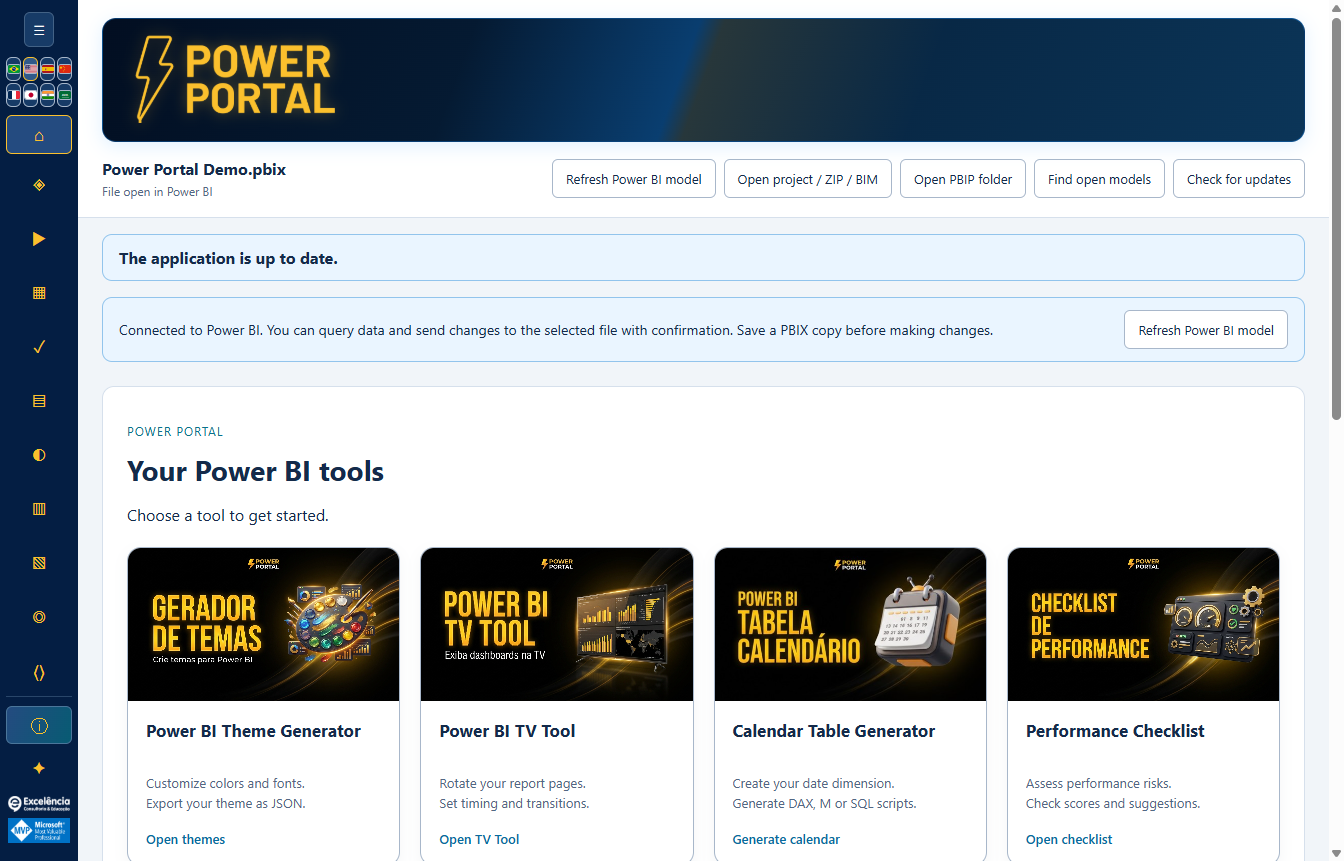
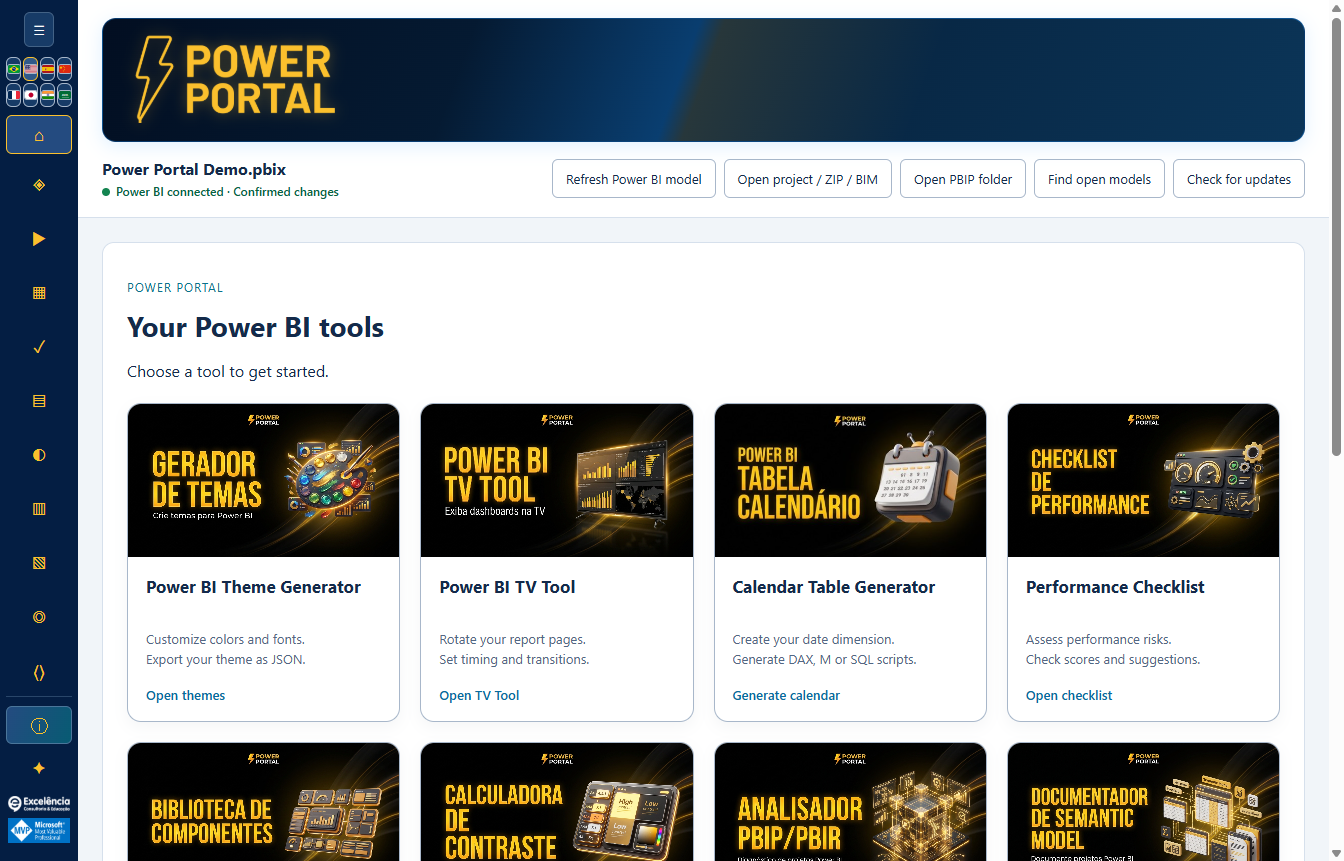
Release 1.6.4 with prominent updates, TV example and refined theme workflow

diff --git a/README.md b/README.md
@@ -10,13 +10,13 @@ This is a **distribution-only repository**: installers, installation helpers, ch
 
 ### Option 1: Install with a few clicks
 
-1. [Download Power Portal Desktop 1.6.3 for Windows x64](https://github.com/luisgnserra/powerportaldesktop/releases/download/v1.6.3/PowerPortal-Setup-1.6.3-x64.exe).
+1. [Download Power Portal Desktop 1.6.4 for Windows x64](https://github.com/luisgnserra/powerportaldesktop/releases/download/v1.6.4/PowerPortal-Setup-1.6.4-x64.exe).
 2. Run the installer and approve the Windows administrator prompt.
 3. Choose the installation folder and default language.
 4. Finish installation, then close and reopen Power BI Desktop.
 5. Open a PBIX and select **External Tools > Power Portal**.
 
-**Windows may warn that the publisher is unknown:** version 1.6.3 is not digitally signed. Only proceed if you trust this distribution. If your organization blocks unsigned software, contact IT rather than bypassing its policy.
+**Windows may warn that the publisher is unknown:** version 1.6.4 is not digitally signed. Only proceed if you trust this distribution. If your organization blocks unsigned software, contact IT rather than bypassing its policy.
 
 [Latest release](https://github.com/luisgnserra/powerportaldesktop/releases/latest) · [Installation guide](docs/INSTALLATION.md) · [Configuration](docs/CONFIGURATION.md) · [Troubleshooting](docs/TROUBLESHOOTING.md)
 
@@ -28,21 +28,23 @@ The installer adds **Power Portal** to **External Tools** in Power BI Desktop. C
 
 The supplied ribbon screenshot uses Portuguese: **Ferramentas externas** means **External Tools**. Power Portal opens a **separate window connected to Power BI**, not an embedded report visual or a new internal Power BI pane.
 
-![Power Portal 1.6.3 home, full sidebar and startup connection notice](docs/images/home.png)
+![Power Portal 1.6.4 home, full sidebar and startup connection notice](docs/images/home.png)
 
 **Already have Power BI open?** When launched from a shortcut, Power Portal detects open local models and displays a connection notice. Choose **Find open models**, select your file, and connect. You can then query its data and send supported changes back with confirmation.
+
+Once connected, the status is summarized in the header rather than occupying a separate banner.
 
 [See all ten tools, connection screens and direct Power BI actions in the illustrated guide](docs/SCREENSHOTS.md).
 
 ### Built-in update checks
 
-Starting in **1.6.2**, the installed application checks the latest official GitHub Release when opened. If a newer stable version exists, it shows **Update now**. Click it to download, verify SHA-256/size, and start the installer automatically.
+Starting in **1.6.2**, the installed application checks the latest official GitHub Release when opened. If a newer stable version exists, it shows **Update now**. In 1.6.4 the banner is prominent, animated and stays visible while scrolling, respecting reduced-motion preferences. No persistent "up to date" line is shown. Click to download, verify SHA-256/size, and start the installer automatically.
 
 Windows asks for administrator authorization. Only Power Portal closes; Power BI remains open. Save/export unsent tool edits first. Failed downloads or canceled authorization leave an explicit error and a retry option.
 
 ![New-version notification and Update now button](docs/images/update-available.png)
 
-The screenshot uses a **simulated future 1.6.4 notification** to illustrate the UI, not an announcement of a published version. **Version 1.6.3 is now published:** users on 1.6.2 can reopen the app or click **Check for updates** to test the real notification. [Update guide](docs/UPDATES.md).
+The screenshot uses a **simulated future 1.6.5 notification** to illustrate the UI, not an announcement of a published version. **Version 1.6.4 is now published:** users on 1.6.2 or 1.6.3 can reopen the app or click **Check for updates** to test the real notification. [Update guide](docs/UPDATES.md).
 
 **On 1.6.1 or older? Install 1.6.2 manually once** to enable this feature. You can also use **Check for updates** to retry a failed/offline check. The updater never installs merely because you opened the application.
 
@@ -53,13 +55,13 @@ Open **Windows PowerShell 5.1 or PowerShell 7 on Windows**:
 ```powershell
 $script = Join-Path $env:TEMP 'Install-PowerPortal.ps1'
 [Net.ServicePointManager]::SecurityProtocol = [Net.ServicePointManager]::SecurityProtocol -bor [Net.SecurityProtocolType]::Tls12
-Invoke-WebRequest -UseBasicParsing 'https://raw.githubusercontent.com/luisgnserra/powerportaldesktop/v1.6.3/install.ps1' -OutFile $script
+Invoke-WebRequest -UseBasicParsing 'https://raw.githubusercontent.com/luisgnserra/powerportaldesktop/v1.6.4/install.ps1' -OutFile $script
 # Review the downloaded script before running it.
 Get-Content -LiteralPath $script
 & $script
 ```
 
-The helper downloads **version 1.6.3**, verifies its pinned SHA-256 checksum, and opens the same installer. It does not install Node.js, PHP, a .NET SDK, or build anything.
+The helper downloads **version 1.6.4**, verifies its pinned SHA-256 checksum, and opens the same installer. It does not install Node.js, PHP, a .NET SDK, or build anything.
 
 For unattended installation, run the same helper from an **administrator PowerShell window**:
 
@@ -89,8 +91,8 @@ The desktop application includes its required runtime components. You do not nee
 
 | Tool | What it does |
 |---|---|
-| Theme generator | Live local preview, theme JSON import/export, and confirmed application to the connected Power BI window. |
-| TV Tool | Present published report pages or local images, configure timing and transitions, and export presentation HTML. |
+| Theme generator | Highlighted JSON import, live local preview, JSON export, and confirmed direct sending at the end of the page. |
+| TV Tool | Open a working official example in the browser, present published report pages or local images, configure timing/transitions, and export HTML. |
 | Calendar generator | Read existing calendar metadata and dates, export scripts, or create a calculated calendar table with confirmation and backup. |
 | Performance checklist | Assess a report using the portal's checklist and available model metadata. |
 | Component library | Build HTML/DAX components and create an HTML measure in a connected model. |

diff --git a/docs/SCREENSHOTS.md b/docs/SCREENSHOTS.md
@@ -2,7 +2,7 @@
 
 [Back to home](../README.md) · [Install](INSTALLATION.md) · [Safety guide](USAGE.md)
 
-**Application screenshots: Power Portal Desktop 1.6.3, English interface.**
+**Application screenshots: Power Portal Desktop 1.6.4, English interface.**
 The screenshots use **synthetic demonstration metadata and query values**, not a customer PBIX. Connected states illustrate supported UI actions; no customer model was changed to make these images. Native file-picker labels can follow the Windows language. The actual Power BI ribbon screenshot was supplied by the owner and cropped to remove the private file title.
 
 ## Open Power Portal from External Tools
@@ -35,7 +35,9 @@ Launching from the External Tools ribbon instead passes that Desktop instance's 
 
 ![New version available with Update now and the authorization/unsent-edits warning](images/update-available.png)
 
-The screenshot uses a **synthetic future 1.6.4 result** to show the notification in version 1.6.3. It is not a claim that 1.6.4 has been published. Users on 1.6.2 can test the real 1.6.3 notification now.
+The screenshot uses a **synthetic future 1.6.5 result** to show the notification in version 1.6.4. It is not a claim that 1.6.5 has been published. Users on 1.6.2 or 1.6.3 can test the real 1.6.4 notification now.
+
+In 1.6.4, the amber banner stays visible while scrolling and gently animates unless reduced motion is enabled. No persistent "up to date" banner occupies space.
 
 The installed application checks the latest stable official Release at startup. Click **Update now** to download and verify the installer, then approve the Windows administrator request. It updates the existing installation folder and closes only Power Portal. **Connecting or checking alone never installs anything.** Save/export unsent tool edits first and reopen the app when installation finishes.
 
@@ -60,13 +62,15 @@ These are not limited to downloading text or JSON:
 
 ![Table, column and measure selectors with a queried demonstration result](images/live-model-data.png)
 
-Select a table/column/measure and query a value, row count, column sample or date range. The connected notice explains how to refresh metadata or send confirmed changes. This data panel appears where relevant, such as calendars and components.
+Select a table/column/measure and query a value, row count, column sample or date range. Connected status is summarized in the green header text; its tooltip reminds you to save a PBIX copy. This data panel appears where relevant, such as calendars and components.
 
 ### Theme generator
 
-![Live theme preview and prominent Send theme directly to Power BI action](images/theme-generator.png)
+![Highlighted JSON import and live theme preview](images/theme-generator.png)
 
-Edit colors/fonts and watch the live preview. Use **Send theme directly to Power BI** to apply to the selected Desktop window, or export JSON for manual import.
+Use the highlighted **Load report theme (JSON)** area, edit colors/fonts and watch the live preview. Export JSON, or scroll to the end of the page, below the form and preview, to use **Send theme directly to Power BI**.
+
+![Send theme directly to Power BI at the end of the generator page](images/theme-send.png)
 
 To start from the existing report theme, save its JSON in Desktop and load it here. A semantic-model connection does not read report themes. Direct sending still uses the **visible import dialog**: no supported generic Desktop theme API eliminates it. Do not interact with Power BI while automation runs.
 
@@ -96,9 +100,11 @@ Select the existing model measure, format its expression, then choose **Update m
 
 ### Power BI TV Tool
 
-![TV controls, HTML export and local illustrative presentation](images/tv-tool.png)
+![Highlighted TV Tool in action example at the top of the tool](images/tv-tool.png)
 
-Rotate published report pages or local images, set durations/transitions, preview and export HTML. The screen above uses the bundled illustrative presentation. TV does **not** rotate pages of the open local PBIX. Private published reports require appropriate Microsoft sign-in/licensing/permissions.
+The top **TV Tool in action** banner opens a [working official example](https://www.powerportal.com.br/tv_tool/painel_exemplo_power_bi_tv_tool.html) in your default browser, requiring internet but sending no local model data. The form's local illustrative presentation remains available.
+
+Rotate published report pages or local images, set durations/transitions, preview and export HTML. TV does **not** rotate pages of the open local PBIX. Private published reports require appropriate Microsoft sign-in/licensing/permissions.
 
 ### Performance checklist
 

diff --git a/docs/INSTALLATION.md b/docs/INSTALLATION.md
@@ -11,7 +11,7 @@ Allow approximately 1 GB of free disk space for the download and installed runti
 ## Simple installation
 
 1. Open the [latest Release](https://github.com/luisgnserra/powerportaldesktop/releases/latest).
-2. Under **Assets**, download `PowerPortal-Setup-1.6.3-x64.exe` for this release. Do not download the automatically generated source archives as an installer.
+2. Under **Assets**, download `PowerPortal-Setup-1.6.4-x64.exe` for this release. Do not download the automatically generated source archives as an installer.
 3. Optionally [verify SHA-256](#verify-the-installer).
 4. Run the executable and approve User Account Control.
 5. Accept the displayed dependency terms, choose a folder, and select a default language using the flags. Windows UI language is suggested; unsupported languages default to English.
@@ -37,12 +37,12 @@ Launching the Windows shortcut instead displays a notice when open models are de
 ```powershell
 $script = Join-Path $env:TEMP 'Install-PowerPortal.ps1'
 [Net.ServicePointManager]::SecurityProtocol = [Net.ServicePointManager]::SecurityProtocol -bor [Net.SecurityProtocolType]::Tls12
-Invoke-WebRequest -UseBasicParsing 'https://raw.githubusercontent.com/luisgnserra/powerportaldesktop/v1.6.3/install.ps1' -OutFile $script
+Invoke-WebRequest -UseBasicParsing 'https://raw.githubusercontent.com/luisgnserra/powerportaldesktop/v1.6.4/install.ps1' -OutFile $script
 Get-Content -LiteralPath $script
 & $script
 ```
 
-This versioned URL pins the helper to the 1.6.3 release. It does not silently track future releases. The helper also pins the installer filename and SHA-256 checksum, downloads over HTTPS, verifies the executable before running it, and checks installation registration after a successful installer exit.
+This versioned URL pins the helper to the 1.6.4 release. It does not silently track future releases. The helper also pins the installer filename and SHA-256 checksum, downloads over HTTPS, verifies the executable before running it, and checks installation registration after a successful installer exit.
 
 The TLS line enables HTTPS TLS 1.2 in this PowerShell process for older Windows PowerShell defaults. It does not change Windows security or execution policies.
 
@@ -81,7 +81,7 @@ Do not paste an unreviewed script into `Invoke-Expression`. If a downloaded scri
 After checksum verification, an administrator can run:
 
 ```powershell
-$setup = "$env:USERPROFILE\Downloads\PowerPortal-Setup-1.6.3-x64.exe"
+$setup = "$env:USERPROFILE\Downloads\PowerPortal-Setup-1.6.4-x64.exe"
 $process = Start-Process -FilePath $setup -ArgumentList '/S' -Wait -PassThru
 if ($process.ExitCode -ne 0) { throw "Installer failed: $($process.ExitCode)" }
 ```
@@ -90,15 +90,15 @@ The PowerShell helper is recommended because it checks both the download and the
 
 ## Verify the installer
 
-Expected SHA-256 for **1.6.3 x64**:
+Expected SHA-256 for **1.6.4 x64**:
 
 ```text
[2 lines of base64/hex data omitted]
 ```
 
 ```powershell
-$file = "$env:USERPROFILE\Downloads\PowerPortal-Setup-1.6.3-x64.exe"
[1 lines of base64/hex data omitted]
+$file = "$env:USERPROFILE\Downloads\PowerPortal-Setup-1.6.4-x64.exe"
[1 lines of base64/hex data omitted]
 if ((Get-FileHash -LiteralPath $file -Algorithm SHA256).Hash -ne $expected) {
     throw 'Checksum mismatch. Do not run this installer.'
 }

diff --git a/docs/UPDATES.md b/docs/UPDATES.md
@@ -13,7 +13,7 @@ The development/source run does not download or install updates.
 ## Update flow
 
 1. Open Power Portal. With internet available, it checks for a newer release.
-2. If available, a notification displays the version and **Update now**.
+2. If available, a prominent amber notification displays the version and **Update now**. It stays visible while scrolling, with a gentle glow animation; reduced-motion preferences disable the animation. The check button is also highlighted.
 3. **Save/export unsent tool edits** before proceeding. Model writes/themes already in progress block updating.
 4. Click **Update now**. There is no installation merely from opening the app or checking for updates.
 5. The main process downloads the official x64 installer over HTTPS and checks its exact size and SHA-256 against the published GitHub Release asset metadata.
@@ -23,17 +23,19 @@ The development/source run does not download or install updates.
 
 ![Update notification and user-controlled Update now button](images/update-available.png)
 
-The screenshot is a **simulated future 1.6.4 notification** inside 1.6.3, demonstrating the UI only. It is not an announcement of 1.6.4.
+The screenshot is a **simulated future 1.6.5 notification** inside 1.6.4, demonstrating the UI only. It is not an announcement of 1.6.5.
 
-### Test the real 1.6.2 to 1.6.3 notification
+### Test the real notification from 1.6.2 or 1.6.3
 
-Keep version **1.6.2** installed, reopen it or click **Check for updates**. The published stable **1.6.3** should appear with **Update now**. Do not install 1.6.3 manually first if you want to observe this notification. Click the update button only when ready to test installation and approve Windows authorization.
+Keep version **1.6.2 or 1.6.3** installed, reopen it or click **Check for updates**. The published stable **1.6.4** should appear with **Update now**. Do not install 1.6.4 manually first if you want to observe this notification. Older versions use their original banner; the new visual styling appears after updating to 1.6.4 and is used for subsequent updates. Click the update button only when ready to test installation and approve Windows authorization.
 
 The app reports installer launch, not a verified completed installation: installation completes after the old app closes. Check the displayed application version after reopening. Windows can still block the unsigned installer or require IT approval.
 
 ## Checks, retries and failures
 
 **Check for updates** in the top actions retries the check manually. There is no background polling loop or forced installation.
+
+In 1.6.4, a successful check finding no newer version does not leave an "up to date" banner occupying a line. Errors and available updates still remain visible.
 
 - Offline, firewall/proxy or GitHub API rate-limit errors are displayed in the update notice; local tools remain usable.
 - Invalid release metadata, missing asset digest, checksum mismatch, unexpected redirect hosts, excessive download size or timeouts prevent execution.

diff --git a/docs/USAGE.md b/docs/USAGE.md
@@ -8,6 +8,8 @@ Start from Power BI's External Tools ribbon for an automatic local model connect
 
 Use the sidebar collapse button and flags as needed. The connection header shows the file name when available, rather than the internal database GUID.
 
+After connecting, a compact green status in the header replaces the larger connected banner. Its tooltip reminds you to save a separate PBIX copy. Supported changes still require confirmation.
+
 [Illustrated walkthrough of all screens and Power BI interactions](SCREENSHOTS.md).
 
 ## Read-only work
@@ -23,9 +25,9 @@ ZIP limits are 50 MB compressed, 500 MB extracted, 10,000 files and 64 MB per en
 ## Themes
 
 1. In Power BI Desktop, save the current theme JSON from the Themes menu if you want to edit it.
-2. In Power Portal's theme generator, import that JSON. A TOM model connection cannot retrieve the report theme.
+2. In Power Portal's theme generator, use the highlighted **Load report theme (JSON)** area. A TOM model connection cannot retrieve the report theme.
 3. Edit colors/fonts/backgrounds while watching the local live preview.
-4. Export JSON, or choose **Send theme directly to Power BI**.
+4. Export JSON, or scroll to the end of the page, below the settings and preview, and choose **Send theme directly to Power BI**.
 5. Verify the file name in the confirmation, approve, and do not interact with Power BI during import.
 6. Save the PBIX in Power BI when satisfied.
 
@@ -35,7 +37,9 @@ There is no supported generic Desktop API for applying a theme to any open PBIX 
 
 The live preview is a local implementation of the site's theme screen, not a pixel-identical representation of every Power BI visual.
 
-![Theme live preview and Send theme directly to Power BI button](images/theme-generator.png)
+![Highlighted theme import and live preview](images/theme-generator.png)
+
+![Send theme directly to Power BI at the end of the page](images/theme-send.png)
 
 ## Write operations
 
@@ -74,6 +78,8 @@ Select a model measure in the DAX formatter, format its expression, then use **U
 ![Model measure selection, formatted DAX and Update measure in Power BI](images/dax-formatter.png)
 
 ## TV Tool
+
+The highlighted **TV Tool in action** area at the top opens a [working official dashboard example](https://www.powerportal.com.br/tv_tool/painel_exemplo_power_bi_tv_tool.html) in your default browser. It requires internet and does not send the local model. The form's illustrative example still loads local sample slides.
 
 Use published report links or local images, adjust durations/transitions and export HTML. Service links preserve supported page identifiers. The tool does **not** rotate pages of the locally open PBIX.
 

diff --git a/docs/TROUBLESHOOTING.md b/docs/TROUBLESHOOTING.md
@@ -23,7 +23,7 @@
 | SHA-256 mismatch | **Do not run the file.** Remove/move the invalid download, get the official asset again, and compare against the published checksum. |
 | GitHub download fails | Check connectivity, proxy/firewall restrictions and the Release URL. IT can distribute the verified EXE through an approved channel. |
 | PowerShell reports an underlying connection/TLS send error | Use the documented TLS 1.2 line before fetching the helper in Windows PowerShell, then retry. The native application updater already uses HTTPS/TLS independently. |
-| SmartScreen/unknown publisher | 1.6.3 is unsigned. Verify the checksum and publisher source; ask IT if your device blocks unsigned programs. |
+| SmartScreen/unknown publisher | 1.6.4 is unsigned. Verify the checksum and publisher source; ask IT if your device blocks unsigned programs. |
 | Updates are not checked on startup | Versions 1.6.1 and older need a one-time manual upgrade to 1.6.2. The development/source run intentionally does not update. |
 | Update check fails/offline/HTTP 403 or 429 | Local tools remain available. Check internet/proxy/firewall and retry **Check for updates**. GitHub API rate limits can apply. |
 | Update now fails checksum or size verification | The installer was not executed. Retry or download the official Release manually; do not run a corrupt cached file. |
@@ -40,7 +40,7 @@ Email **[contato@consultoriaexcelencia.com.br](mailto:contato@consultoriaexcelen
 
 Include:
 
-- Power Portal version (1.6.3 for this release).
+- Power Portal version (1.6.4 for this release).
 - Windows version and Power BI Desktop version/edition.
 - Installation method (wizard or PowerShell).
 - Steps to reproduce and the exact visible error.

diff --git a/CHANGELOG.md b/CHANGELOG.md
@@ -1,5 +1,19 @@
 # Release notes
 
+## 1.6.4
+
+- Prominent TV Tool example at the top opens the working official dashboard in the default browser; local illustrative slides remain available.
+- Available-update notification has stronger colors, larger version text, a sticky banner and gentle animation respecting reduced-motion preferences.
+- No persistent "up to date" line. Connected state is compact in the header, with the PBIX-copy reminder in its tooltip.
+- Theme JSON import is highlighted; **Send theme directly to Power BI** is now at the end of the page. Removed redundant explanatory paragraphs from the tool, retaining native confirmation and documented automation limitations.
+- All new text supports eight languages. Updated installer, helper, checksum and 18 screenshots, including the end-of-page theme action.
+
+### Assets
+
+- `PowerPortal-Setup-1.6.4-x64.exe`
+- `SHA256SUMS.txt`
+- `install.ps1`
+
 ## 1.6.3
 
 - Stable version increment to allow users on 1.6.2 to test the real update notification and **Update now** flow.

diff --git a/DISTRIBUTION.md b/DISTRIBUTION.md
@@ -8,6 +8,6 @@ No new application licensing terms are established by this repository. For licen
 
 The installer presents Microsoft AMO/TOM dependency terms. Third-party license notices are included with the installed runtime components. Microsoft, Power BI and Microsoft Fabric are Microsoft trademarks; MVP identification does not imply Microsoft ownership, sponsorship or endorsement.
 
-Version 1.6.3 is not digitally signed. Obtain it from the official Release assets, verify the published SHA-256 checksum, and comply with your organization's software approval policies.
+Version 1.6.4 is not digitally signed. Obtain it from the official Release assets, verify the published SHA-256 checksum, and comply with your organization's software approval policies.
 
 The automatic GitHub ZIP/TAR "Source code" downloads contain only this distribution repository's files. They are not the Power Portal application, an installer, or a source-code release of the application.
